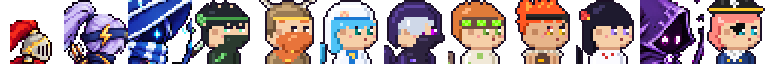
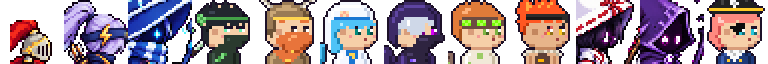
아마네 일러스트를 게임 스프라이트로 적용
Claude-Session: https://claude.ai/code/session_01Fxb29UthuHm5NupsxcALjM

Changed region(s): [[0.75, 0.0, 0.8438, 1.0]]

diff --git a/index.html b/index.html
@@ -8,22 +8,22 @@
   <link rel="preconnect" href="https://fonts.googleapis.com">
   <link rel="preconnect" href="https://fonts.gstatic.com" crossorigin>
   <link href="https://fonts.googleapis.com/css2?family=Black+Han+Sans&family=Noto+Sans+KR:wght@400;700;900&display=swap" rel="stylesheet">
-  <link rel="stylesheet" href="style.css?v=202610191416">
-  <script>window.__ASSET_V = '202610191416';</script>
+  <link rel="stylesheet" href="style.css?v=202610191443">
+  <script>window.__ASSET_V = '202610191443';</script>
   <script type="importmap">
   {
     "imports": {
-      "./src/data.js": "./src/data.js?v=202610191416",
-      "./src/maps.js": "./src/maps.js?v=202610191416",
-      "./src/sim.js": "./src/sim.js?v=202610191416",
-      "./src/fx.js": "./src/fx.js?v=202610191416",
-      "./src/render.js": "./src/render.js?v=202610191416",
-      "./src/audio.js": "./src/audio.js?v=202610191416",
-      "./src/net.js": "./src/net.js?v=202610191416",
-      "./src/save.js": "./src/save.js?v=202610191416",
-      "./src/ui.js": "./src/ui.js?v=202610191416",
-      "./src/cloud.js": "./src/cloud.js?v=202610191416",
-      "./src/config.js": "./src/config.js?v=202610191416"
+      "./src/data.js": "./src/data.js?v=202610191443",
+      "./src/maps.js": "./src/maps.js?v=202610191443",
+      "./src/sim.js": "./src/sim.js?v=202610191443",
+      "./src/fx.js": "./src/fx.js?v=202610191443",
+      "./src/render.js": "./src/render.js?v=202610191443",
+      "./src/audio.js": "./src/audio.js?v=202610191443",
+      "./src/net.js": "./src/net.js?v=202610191443",
+      "./src/save.js": "./src/save.js?v=202610191443",
+      "./src/ui.js": "./src/ui.js?v=202610191443",
+      "./src/cloud.js": "./src/cloud.js?v=202610191443",
+      "./src/config.js": "./src/config.js?v=202610191443"
     }
   }
   </script>
@@ -43,6 +43,6 @@
     <div id="aug" hidden></div>
     <div id="menu" class="overlay"></div>
   </div>
-  <script type="module" src="./src/main.js?v=202610191416"></script>
+  <script type="module" src="./src/main.js?v=202610191443"></script>
 </body>
 </html>

diff --git a/src/data.js b/src/data.js
@@ -227,6 +227,7 @@ export const HERO_SPRITE = { size: 48, draw: 72, frames: 16, portrait: 64 };
 export const HERO_SHEETS = {
   archer: { file: 'hero_archer.png', cell: 72, scale: 1.0 },
   mage: { file: 'hero_mage.png', cell: 104, scale: 0.78 },
+  miko: { file: 'hero_miko.png', cell: 104, scale: 0.78 },
   reaper: { file: 'hero_reaper.png', cell: 128, scale: 0.72 },
 };
 

diff --git a/tools/hero_art.py b/tools/hero_art.py
@@ -709,6 +709,8 @@ HEROES['miko'] = dict(
     ], pivot=(3, 2)),
     kind='staff', legs=('p', 'o', 'O'), arm='a', glove='a',
     ang=dict(rest=-60, windup=-120, strike=-10, follow=-35, hurt=-40, win=-100),
+    sprite=dict(file='tools/art/miko.png', cell=104, scale=0.78, weapon_from=(60, 26), pivot=(58, 56), legs=(80, 37), face=(32, 18, 32),
+                ang=dict(rest=0, windup=-14, strike=10, follow=5, hurt=10, win=-15), push=dict(windup=-1, strike=2, follow=1)),
 )
 
 # =====================================================================
